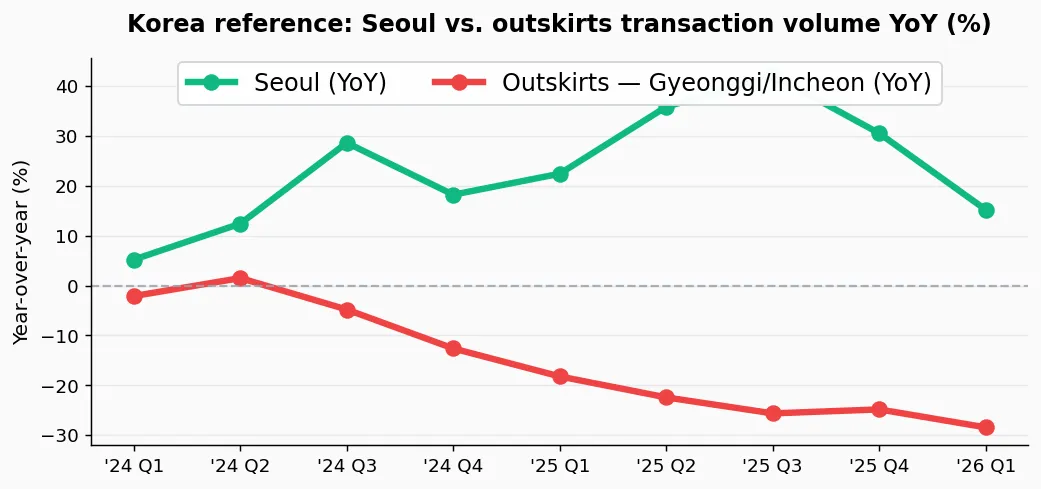
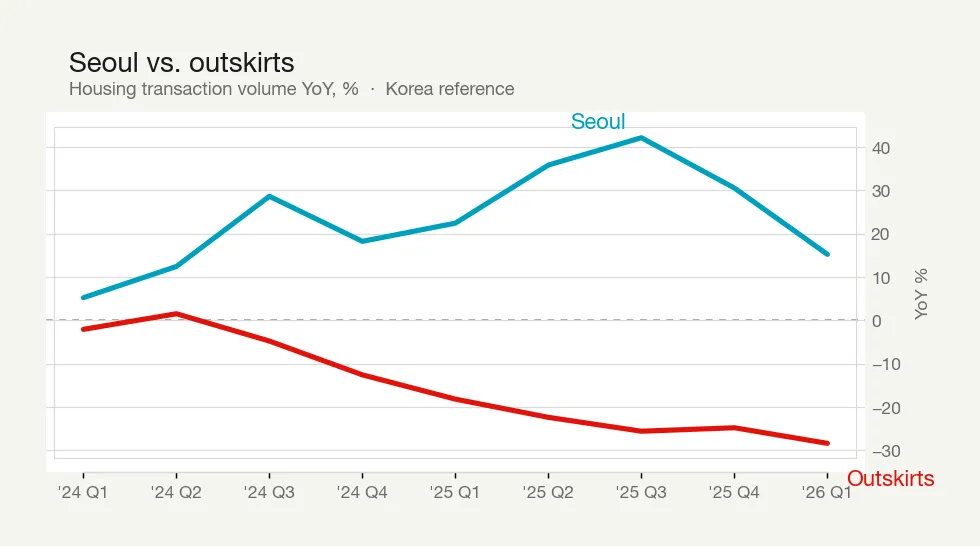
style(blog): Economist-style Korea chart with direct line labels
Remove overlapping legend box; label lines as Seoul/Outskirts only and move
Gyeonggi/Incheon and DSR detail to MDX captions. Add red accent bar and
right-axis layout inspired by The Economist.

diff --git a/src/styles/global.css b/src/styles/global.css
@@ -320,14 +320,16 @@ html[data-theme="dark"] {
   margin: 1.25rem auto;
   max-width: 36rem;
   padding: 0;
+  background: #f5f5f0;
+  border-radius: 0.5rem;
 }
 
 .supplemental-chart img {
   display: block;
   width: 100%;
   height: auto;
-  border-radius: 0.75rem;
-  border: 1px solid var(--card-border, rgba(128, 128, 128, 0.12));
+  border-radius: 0.5rem;
+  border: none;
 }
 
 .supplemental-chart figcaption {

diff --git a/scripts/charts/generate-macro-barrier-chart.py b/scripts/charts/generate-macro-barrier-chart.py
@@ -1,9 +1,9 @@
 #!/usr/bin/env python3
-"""Build one supplemental Korea YoY chart asset (WebP) from CSV.
+"""Build Economist-style supplemental Korea YoY chart (WebP).
 
   python3 scripts/charts/generate-macro-barrier-chart.py
 
-Chart labels stay in English for legibility; KO/EN/JA captions live in MDX.
+Legend: direct line labels (Seoul / Outskirts) — details live in MDX captions.
 """
 
 from __future__ import annotations
@@ -12,13 +12,21 @@ import csv
 from pathlib import Path
 
 import matplotlib.pyplot as plt
+from matplotlib.gridspec import GridSpec
+from matplotlib.patches import FancyBboxPatch
 
 ROOT = Path(__file__).resolve().parents[2]
 CSV_PATH = ROOT / "public/data/macro-barrier-chart-source.csv"
 OUT_WEBP = ROOT / "public/assets/images/blog/macro-barrier-seoul-outskirts-yoy.webp"
 
-SEOUL_COLOR = "#10b981"
-OUTSKIRTS_COLOR = "#ef4444"
+# Economist-inspired palette
+ECONOMIST_RED = "#E3120B"
+SEOUL_COLOR = "#009FBD"  # cyan blue (positive series)
+OUTSKIRTS_COLOR = "#E3120B"  # accent red (declining series)
+TEXT_DARK = "#1A1A1A"
+TEXT_MUTED = "#6B6B6B"
+GRID_COLOR = "#D8D8D8"
+BG_COLOR = "#F5F5F0"
 
 
 def load_series() -> tuple[list[str], list[float], list[float]]:
@@ -38,58 +46,119 @@ def load_series() -> tuple[list[str], list[float], list[float]]:
     return quarters, seoul, outskirts
 
 
+def add_direct_labels(ax, x_labels: list[str], seoul: list[float], outskirts: list[float]) -> None:
+    """Place short labels in empty chart space (no legend box)."""
+    n = len(x_labels) - 1
+    # Seoul — upper area near peak ('25 Q2)
+    ax.annotate(
+        "Seoul",
+        xy=(5, seoul[5]),
+        xytext=(12, 18),
+        textcoords="offset points",
+        color=SEOUL_COLOR,
+        fontsize=12,
+        fontweight="bold",
+        ha="left",
+        va="bottom",
+    )
+    # Outskirts — lower right near trough
+    ax.annotate(
+        "Outskirts",
+        xy=(n, outskirts[-1]),
+        xytext=(10, -14),
+        textcoords="offset points",
+        color=OUTSKIRTS_COLOR,
+        fontsize=12,
+        fontweight="bold",
+        ha="left",
+        va="top",
+    )
+
+
 def main() -> None:
     quarters, seoul, outskirts = load_series()
 
-    fig, ax = plt.subplots(figsize=(8, 3.8), dpi=120)
-    fig.patch.set_facecolor("#fafafa")
-    ax.set_facecolor("#fafafa")
-
-    ax.plot(
-        quarters,
-        seoul,
-        color=SEOUL_COLOR,
-        linewidth=3.5,
-        marker="o",
-        markersize=8,
-        label="Seoul (YoY)",
-    )
-    ax.plot(
-        quarters,
-        outskirts,
-        color=OUTSKIRTS_COLOR,
-        linewidth=3.5,
-        marker="o",
-        markersize=8,
-        label="Outskirts — Gyeonggi/Incheon (YoY)",
+    plt.rcParams.update(
+        {
+            "font.family": "sans-serif",
+            "font.sans-serif": ["Helvetica Neue", "Arial", "DejaVu Sans"],
+        }
     )
 
-    ax.axhline(0, color="#9ca3af", linewidth=1.2, linestyle="--", alpha=0.85)
-    ax.set_title(
-        "Korea reference: Seoul vs. outskirts transaction volume YoY (%)",
-        fontsize=13,
+    fig = plt.figure(figsize=(8, 4.2), dpi=132, facecolor=BG_COLOR)
+    gs = GridSpec(2, 2, figure=fig, height_ratios=[0.14, 1], width_ratios=[0.018, 1], hspace=0.08, wspace=0.02)
+
+    # Economist-style red accent bar (left of title)
+    ax_stripe = fig.add_subplot(gs[0, 0])
+    ax_stripe.set_facecolor(ECONOMIST_RED)
+    ax_stripe.axis("off")
+
+    ax_head = fig.add_subplot(gs[0, 1])
+    ax_head.set_facecolor(BG_COLOR)
+    ax_head.axis("off")
+    ax_head.text(
+        0,
+        0.62,
+        "Seoul vs. outskirts",
+        fontsize=15,
         fontweight="bold",
-        pad=14,
+        color=TEXT_DARK,
+        ha="left",
+        va="center",
+        transform=ax_head.transAxes,
     )
-    ax.set_ylabel("Year-over-year (%)", fontsize=11)
-    ax.tick_params(axis="both", labelsize=10)
-    ax.grid(axis="y", color="#e5e7eb", linewidth=0.8, alpha=0.9)
-    ax.legend(
-        loc="upper center",
-        ncol=2,
-        fontsize=13,
-        frameon=True,
-        framealpha=0.97,
-        edgecolor="#d1d5db",
-        bbox_to_anchor=(0.5, 1.02),
+    ax_head.text(
+        0,
+        0.12,
+        "Housing transaction volume YoY, %  ·  Korea reference",
+        fontsize=10,
+        color=TEXT_MUTED,
+        ha="left",
+        va="center",
+        transform=ax_head.transAxes,
     )
 
-    for spine in ("top", "right"):
-        ax.spines[spine].set_visible(False)
+    ax = fig.add_subplot(gs[1, :])
+    ax.set_facecolor("#FFFFFF")
 
-    fig.tight_layout()
+    x = range(len(quarters))
+    ax.plot(x, seoul, color=SEOUL_COLOR, linewidth=2.8, solid_capstyle="round", zorder=3)
+    ax.plot(x, outskirts, color=OUTSKIRTS_COLOR, linewidth=2.8, solid_capstyle="round", zorder=3)
+
+    ax.axhline(0, color=TEXT_MUTED, linewidth=0.9, linestyle=(0, (4, 4)), alpha=0.7, zorder=1)
+    ax.set_xticks(list(x))
+    ax.set_xticklabels(quarters, fontsize=9.5, color=TEXT_MUTED)
+    ax.tick_params(axis="y", labelsize=9.5, colors=TEXT_MUTED, length=0)
+    ax.yaxis.tick_right()
+    ax.yaxis.set_label_position("right")
+    ax.set_ylabel("YoY %", fontsize=9.5, color=TEXT_MUTED, labelpad=8)
+
+    ax.set_ylim(-35, 48)
+    ax.grid(axis="y", color=GRID_COLOR, linewidth=0.7, alpha=0.9, zorder=0)
+    ax.grid(axis="x", visible=False)
+
+    for spine in ax.spines.values():
+        spine.set_visible(False)
+    ax.plot([min(x), max(x)], [0, 0], transform=ax.get_xaxis_transform(), color=GRID_COLOR, linewidth=0.8, clip_on=False)
+
+    add_direct_labels(ax, quarters, seoul, outskirts)
+
+    # Subtle plot frame
+    bbox = FancyBboxPatch(
+        (0.01, 0.04),
+        0.98,
+        0.92,
+        boxstyle="square,pad=0",
+        linewidth=0.6,
+        edgecolor=GRID_COLOR,
+        facecolor="none",
+        transform=ax.transAxes,
+        zorder=2,
+    )
+    ax.add_patch(bbox)
+
     OUT_WEBP.parent.mkdir(parents=True, exist_ok=True)
-    fig.savefig(OUT_WEBP, format="webp", bbox_inches="tight", facecolor=fig.get_facecolor(), dpi=132)
+    fig.savefig(OUT_WEBP, format="webp", bbox_inches="tight", pad_inches=0.35, facecolor=BG_COLOR)
     plt.close(fig)
     print(f"wrote {OUT_WEBP} ({OUT_WEBP.stat().st_size} bytes)")
 

diff --git a/scripts/charts/README.md b/scripts/charts/README.md
@@ -20,4 +20,6 @@ python3 scripts/charts/generate-macro-barrier-chart.py
 
 Output: `public/assets/images/blog/macro-barrier-seoul-outskirts-yoy.webp`
 
+**Style:** Economist-inspired — red accent bar, Y-axis on the right, direct line labels (`Seoul` / `Outskirts` only). Gyeonggi/Incheon and DSR context stay in MDX `<figcaption>`.
+
 Posts reference it via `<figure class="supplemental-chart">` in MDX (captions are per language in the post).
